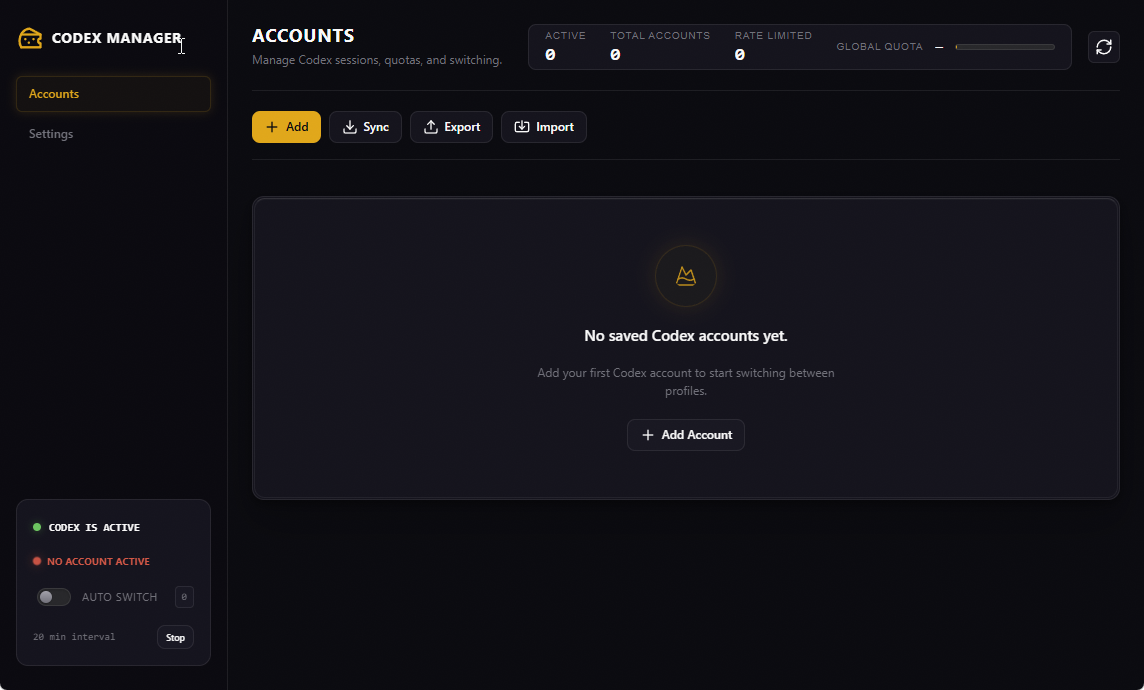
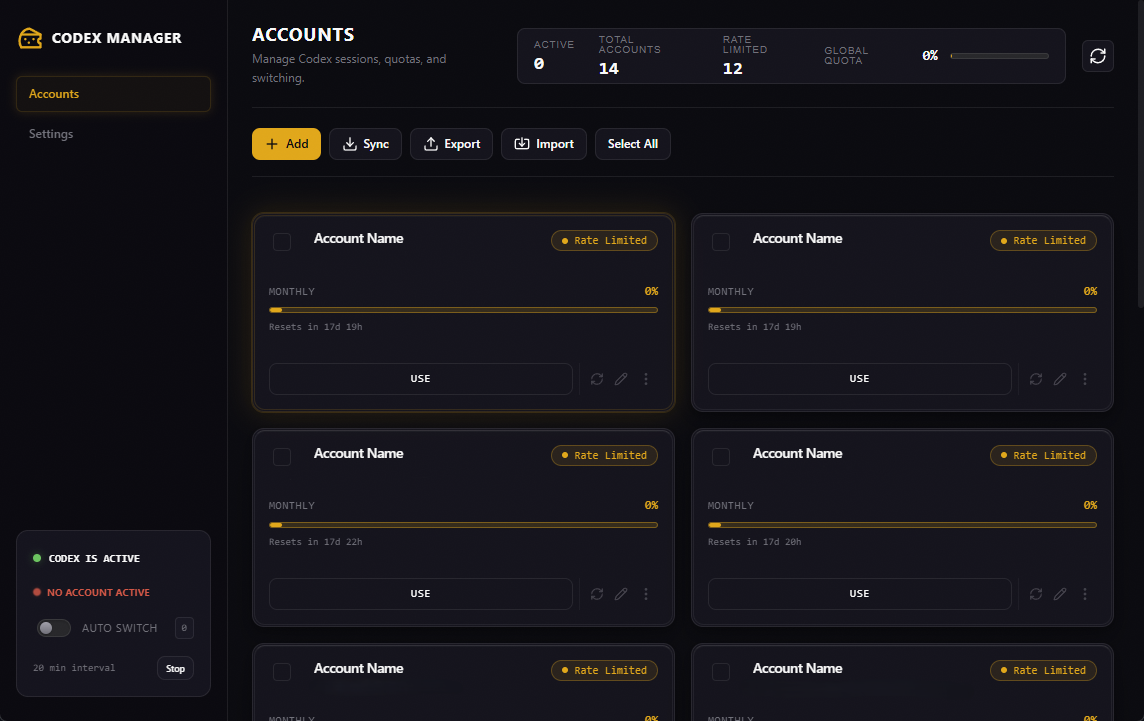
Make project screenshots theme-aware across Codex Manager and Trading Knowledge Base

diff --git a/projects.html b/projects.html
@@ -155,8 +155,10 @@
         <p class="catalog-desc">Searchable library, curriculum, and guides for crypto trading knowledge in one workspace.</p>
         <a class="catalog-link" href="https://arkdaemon.pages.dev/" target="_blank" rel="noopener noreferrer">Open live ↗</a>
         <div class="project-screenshots">
-          <img src="screenshots/trading-kb-1.png" alt="Trading Knowledge Base library view" width="800" height="500" loading="lazy">
-          <img src="screenshots/trading-kb-2.png" alt="Trading Knowledge Base curriculum" width="800" height="500" loading="lazy">
+          <img src="screenshots/trading-kb-1-dark-mode.png" alt="Trading Knowledge Base library view" class="screenshot-dark" width="800" height="500" loading="lazy">
+          <img src="screenshots/trading-kb-1-light-mode.png" alt="Trading Knowledge Base library view" class="screenshot-light" width="800" height="500" loading="lazy">
+          <img src="screenshots/trading-kb-2-dark-mode.png" alt="Trading Knowledge Base curriculum" class="screenshot-dark" width="800" height="500" loading="lazy">
+          <img src="screenshots/trading-kb-2-light-mode.png" alt="Trading Knowledge Base curriculum" class="screenshot-light" width="800" height="500" loading="lazy">
         </div>
         <details class="catalog-details">
           <summary>Details</summary>
@@ -182,8 +184,8 @@
         <p class="catalog-desc">One-click switching between multiple Codex account sessions, with fewer logouts and logins.</p>
         <a class="catalog-link" href="https://github.com/ark-daemon/codex-manager" target="_blank" rel="noopener noreferrer">GitHub ↗</a>
         <div class="project-screenshots">
-          <img src="screenshots/codex-manager-dark-mode.png" alt="Codex Manager dark mode interface" width="800" height="500" loading="lazy">
-          <img src="screenshots/codex-manager-light-mode.png" alt="Codex Manager light mode interface" width="800" height="500" loading="lazy">
+          <img src="screenshots/codex-manager-dark-mode.png" alt="Codex Manager dark mode interface" class="screenshot-dark" width="800" height="500" loading="lazy">
+          <img src="screenshots/codex-manager-light-mode.png" alt="Codex Manager light mode interface" class="screenshot-light" width="800" height="500" loading="lazy">
         </div>
         <details class="catalog-details">
           <summary>Details</summary>
@@ -255,8 +257,10 @@
       </div>
       <p class="featured-demo-lede">Try the searchable glossary from the Trading Knowledge Base. <a class="text-link" href="https://arkdaemon.pages.dev/" target="_blank" rel="noopener noreferrer">Full site ↗</a></p>
       <div class="project-screenshots featured-shots">
-        <img src="screenshots/trading-kb-1.png" alt="Trading Knowledge Base library view" width="800" height="500" loading="lazy">
-        <img src="screenshots/trading-kb-2.png" alt="Trading Knowledge Base curriculum" width="800" height="500" loading="lazy">
+        <img src="screenshots/trading-kb-1-dark-mode.png" alt="Trading Knowledge Base library view" class="screenshot-dark" width="800" height="500" loading="lazy">
+        <img src="screenshots/trading-kb-1-light-mode.png" alt="Trading Knowledge Base library view" class="screenshot-light" width="800" height="500" loading="lazy">
+        <img src="screenshots/trading-kb-2-dark-mode.png" alt="Trading Knowledge Base curriculum" class="screenshot-dark" width="800" height="500" loading="lazy">
+        <img src="screenshots/trading-kb-2-light-mode.png" alt="Trading Knowledge Base curriculum" class="screenshot-light" width="800" height="500" loading="lazy">
       </div>
       <div class="glossary-widget" id="glossary-widget" role="region" aria-label="Trading Knowledge Base glossary preview">
         <div class="glossary-header">

diff --git a/styles.css b/styles.css
@@ -2921,6 +2921,14 @@ body[data-page="setup"] .section {
   border-color: var(--accent);
 }
 
+/* Theme-aware screenshots (Codex Manager) */
+[data-theme="light"] .screenshot-dark {
+  display: none !important;
+}
+[data-theme="dark"] .screenshot-light {
+  display: none !important;
+}
+
 /* ===== Site-wide Screenshot Lightbox Modal ===== */
 .screenshot-modal {
   position: fixed;